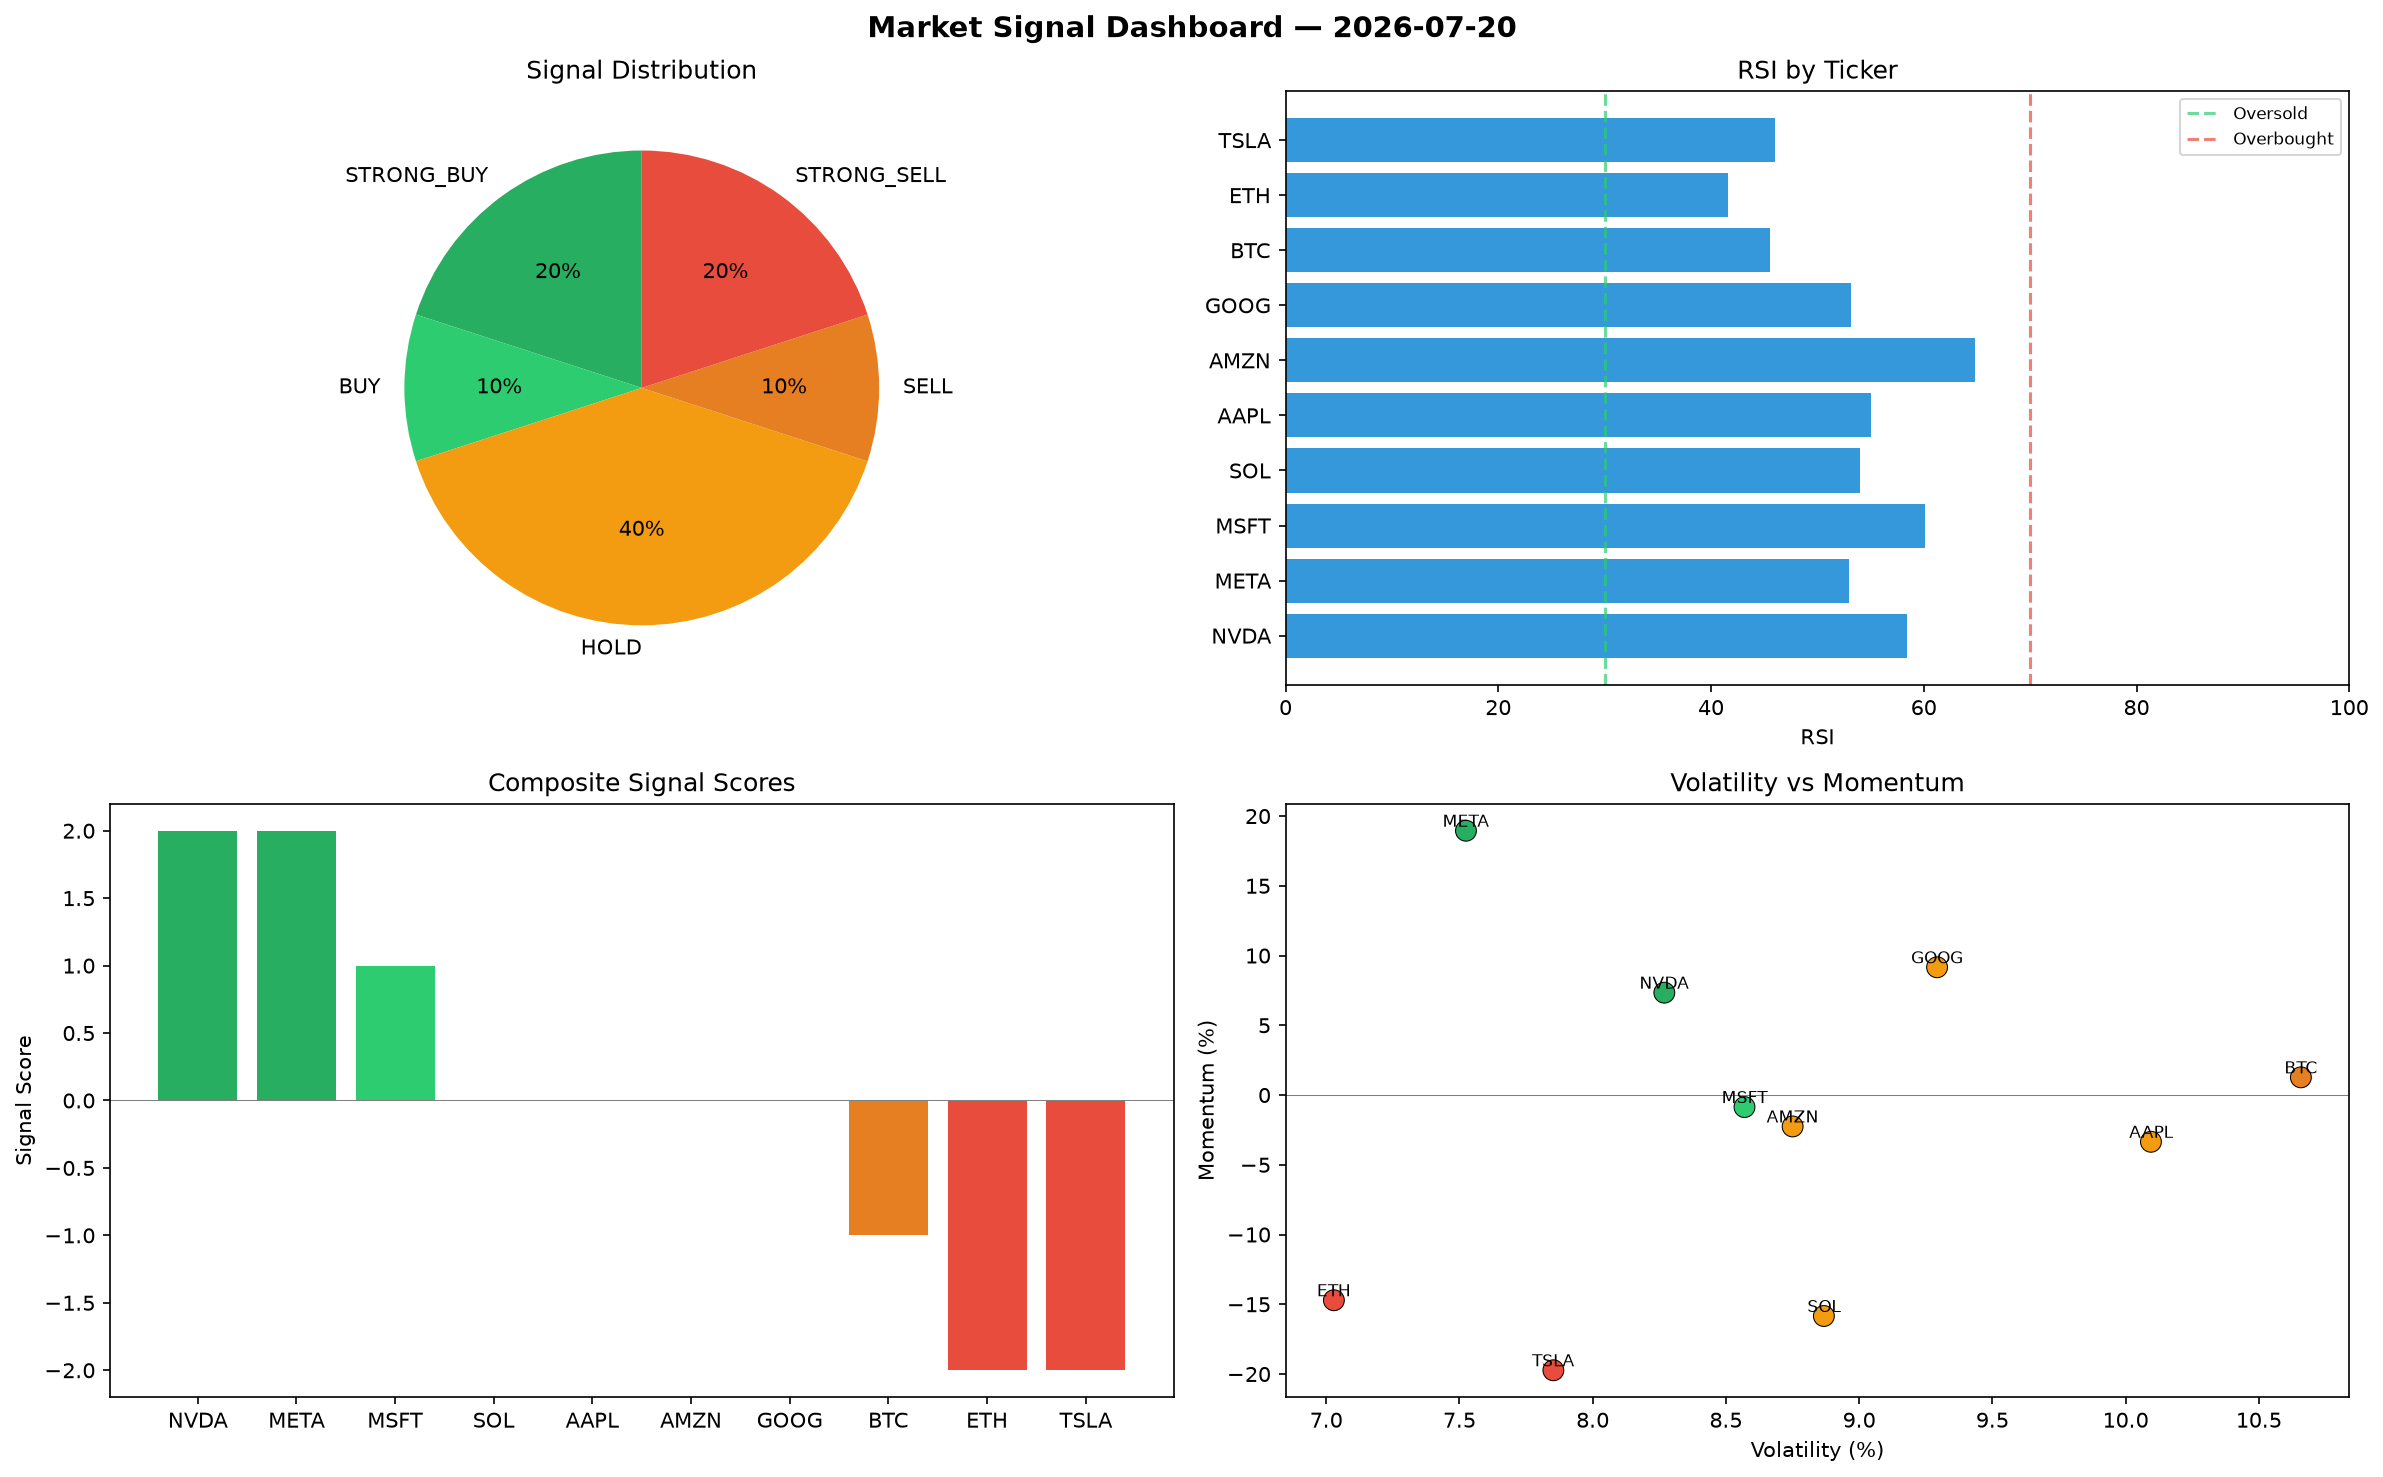
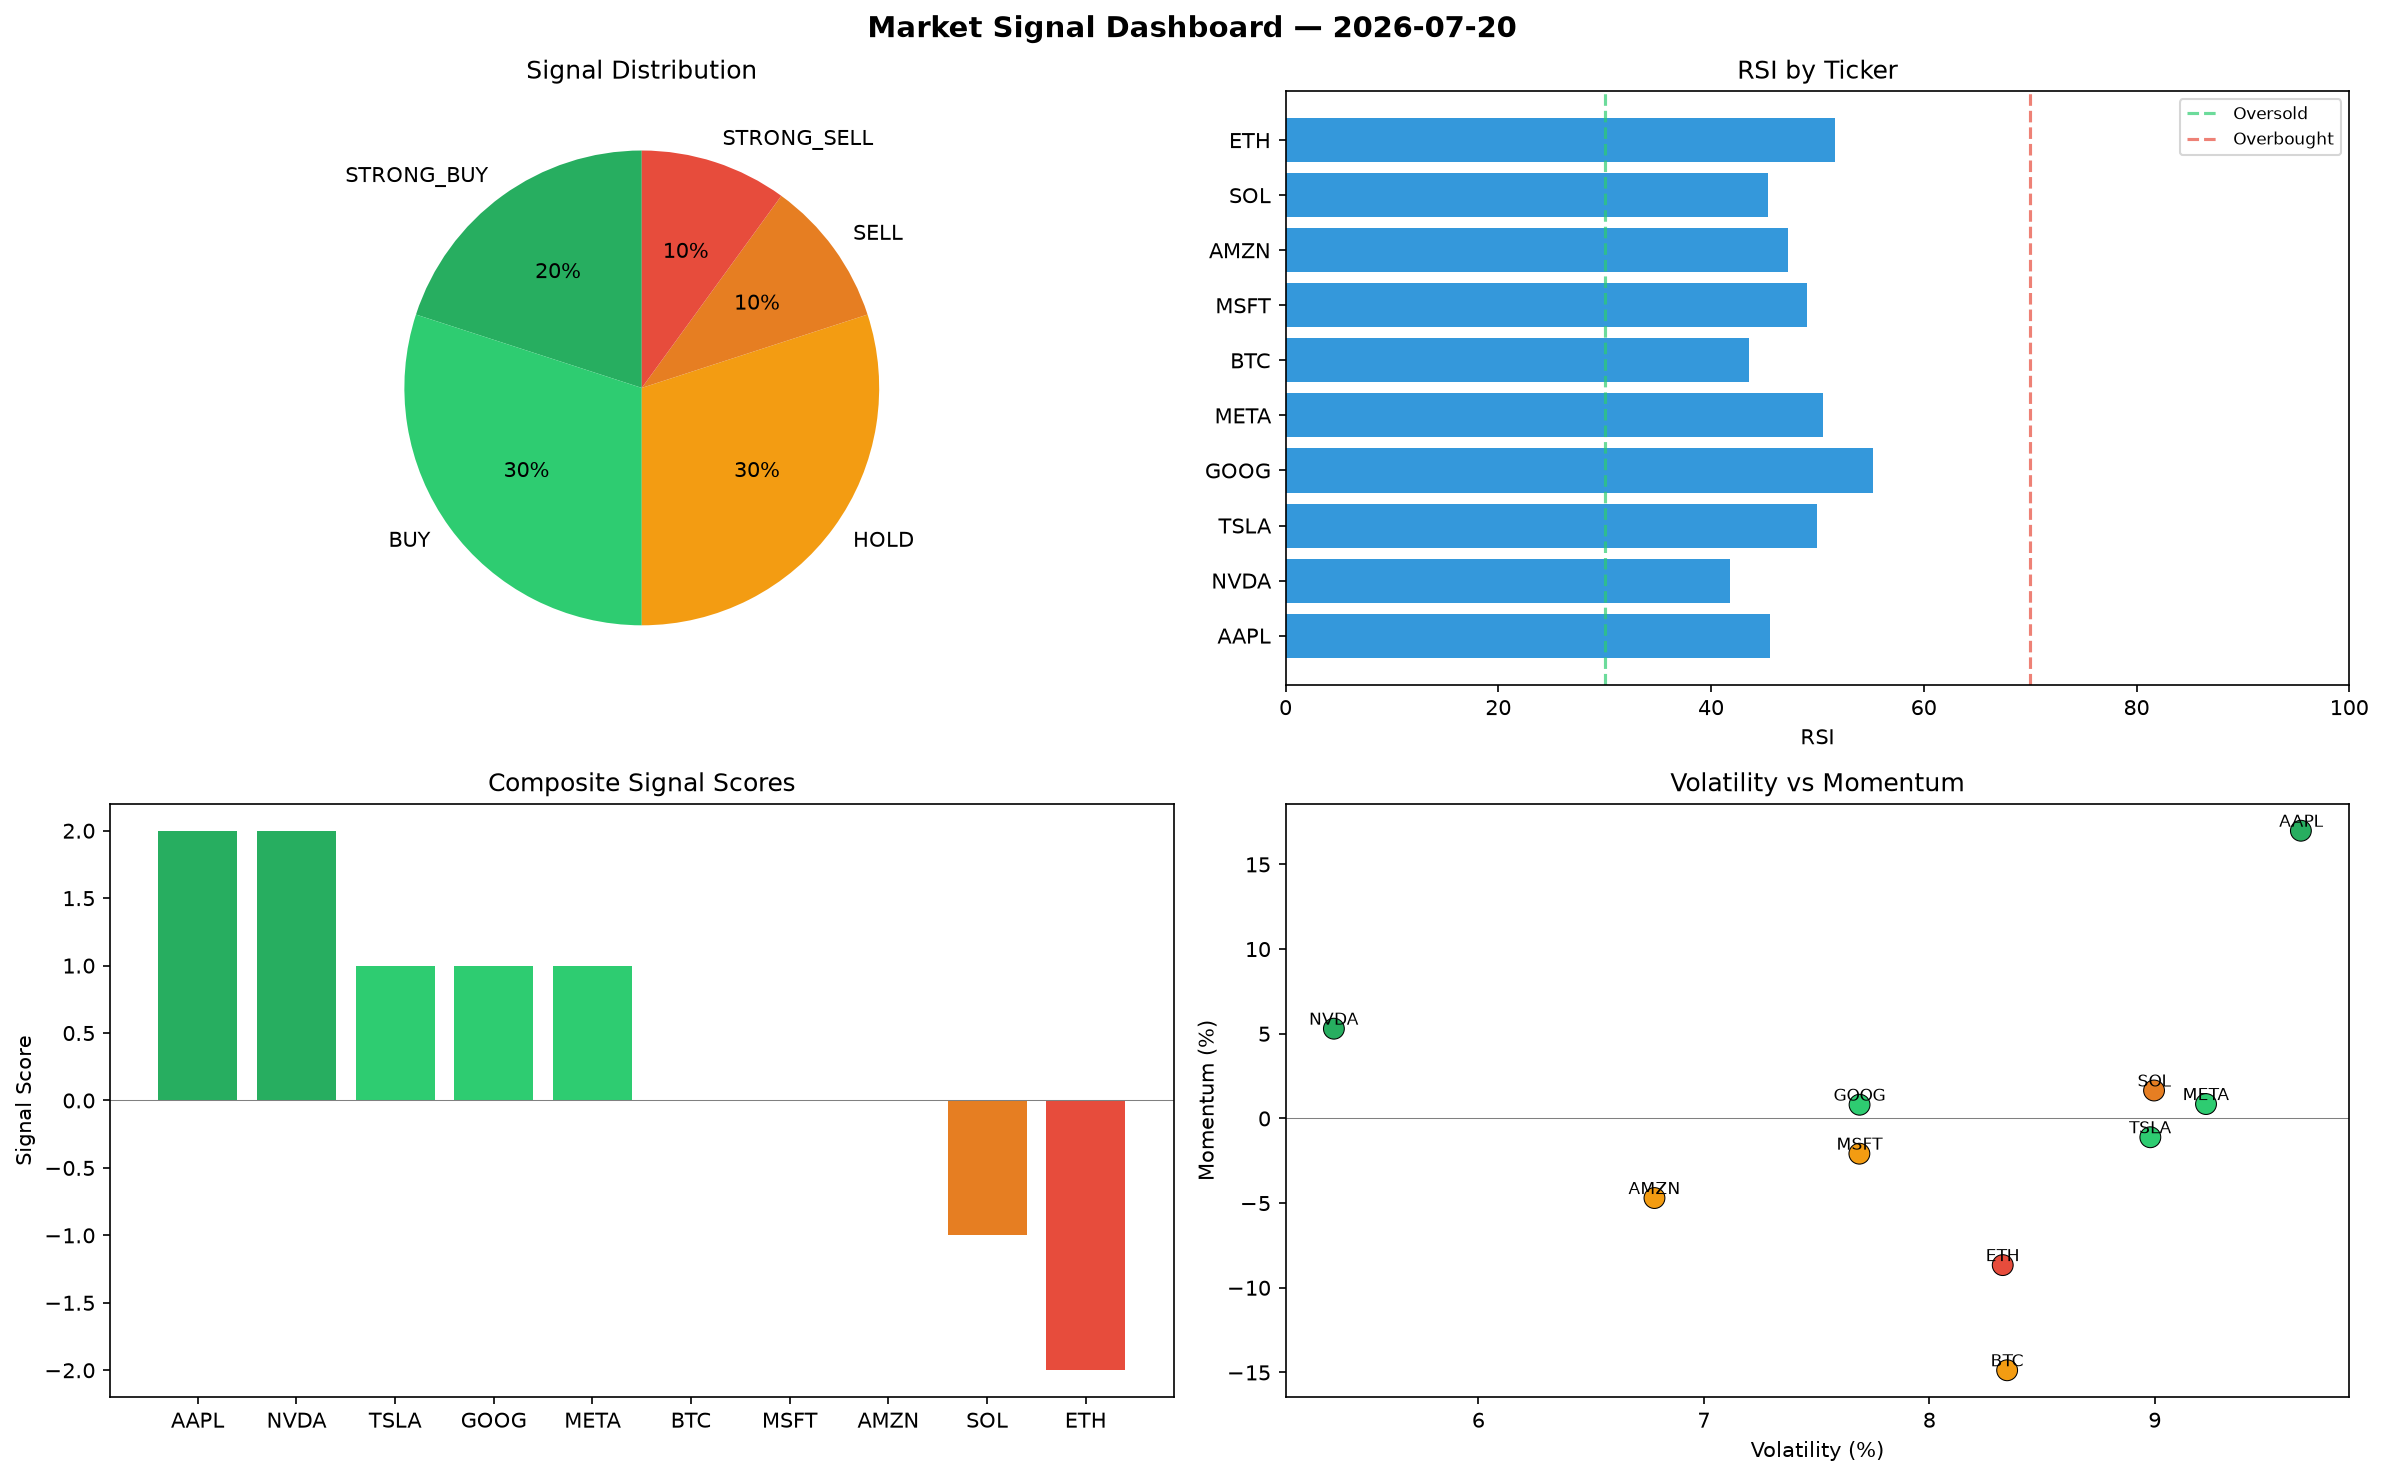
automated-bots: market signals 2026-07-20T21:37

diff --git a/logs/2026-07-20.md b/logs/2026-07-20.md
@@ -1,6 +1,6 @@
 # Market Signal Report — 2026-07-20
 
-**Run ID:** `f9aeab8308` | **Buy:** 3 | **Sell:** 3 | **Hold:** 4
+**Run ID:** `02fcd14703` | **Buy:** 5 | **Sell:** 2 | **Hold:** 3
 
 ![Dashboard](2026-07-20_dashboard.png)
 
@@ -8,28 +8,28 @@
 
 | Ticker | Price | Signal | Score | RSI | Momentum | Confidence |
 |--------|-------|--------|-------|-----|----------|------------|
-| NVDA | $3032.59 | **STRONG_BUY** | 2 | 58.39 | 0.0734 | 0.5 |
-| META | $71.62 | **STRONG_BUY** | 2 | 52.94 | 0.1895 | 0.5 |
-| MSFT | $4611.92 | **BUY** | 1 | 60.14 | -0.0086 | 0.25 |
-| SOL | $3042.68 | **HOLD** | 0 | 54.05 | -0.1584 | 0.0 |
-| AAPL | $1318.69 | **HOLD** | 0 | 55.04 | -0.0335 | 0.0 |
-| AMZN | $2437.42 | **HOLD** | 0 | 64.78 | -0.0225 | 0.0 |
-| GOOG | $3143.2 | **HOLD** | 0 | 53.13 | 0.0916 | 0.0 |
-| BTC | $1205.11 | **SELL** | -1 | 45.54 | 0.0127 | 0.25 |
-| ETH | $1041.61 | **STRONG_SELL** | -2 | 41.56 | -0.1471 | 0.5 |
-| TSLA | $1617.27 | **STRONG_SELL** | -2 | 45.99 | -0.1973 | 0.5 |
+| AAPL | $1951.09 | **STRONG_BUY** | 2 | 45.57 | 0.1699 | 0.5 |
+| NVDA | $2787.35 | **STRONG_BUY** | 2 | 41.74 | 0.053 | 0.5 |
+| TSLA | $959.24 | **BUY** | 1 | 49.97 | -0.0111 | 0.25 |
+| GOOG | $896.31 | **BUY** | 1 | 55.26 | 0.0081 | 0.25 |
+| META | $2553.45 | **BUY** | 1 | 50.52 | 0.0085 | 0.25 |
+| BTC | $734.46 | **HOLD** | 0 | 43.58 | -0.1487 | 0.0 |
+| MSFT | $1976.4 | **HOLD** | 0 | 49.01 | -0.0208 | 0.0 |
+| AMZN | $1195.55 | **HOLD** | 0 | 47.2 | -0.047 | 0.0 |
+| SOL | $3044.88 | **SELL** | -1 | 45.32 | 0.0165 | 0.25 |
+| ETH | $80.55 | **STRONG_SELL** | -2 | 51.65 | -0.0866 | 0.5 |
 
 ## Delta vs Yesterday
 
 | Ticker | Today | Yesterday | Price Change | Signal Changed |
 |--------|-------|-----------|-------------|----------------|
-| NVDA | STRONG_BUY | STRONG_SELL | 📉 -23.81% | ⚠ YES |
-| META | STRONG_BUY | STRONG_SELL | 📉 -96.8% | ⚠ YES |
-| MSFT | BUY | STRONG_SELL | 📈 5.23% | ⚠ YES |
-| SOL | HOLD | STRONG_BUY | 📈 766.89% | ⚠ YES |
-| AAPL | HOLD | HOLD | 📈 73.84% | — |
-| AMZN | HOLD | SELL | 📈 80.17% | ⚠ YES |
-| GOOG | HOLD | HOLD | 📈 152.43% | — |
-| BTC | SELL | STRONG_SELL | 📉 -44.84% | ⚠ YES |
-| ETH | STRONG_SELL | HOLD | 📉 -71.3% | ⚠ YES |
-| TSLA | STRONG_SELL | BUY | 📉 -43.59% | ⚠ YES |
+| AAPL | STRONG_BUY | HOLD | 📈 157.21% | ⚠ YES |
+| NVDA | STRONG_BUY | STRONG_SELL | 📉 -29.98% | ⚠ YES |
+| TSLA | BUY | BUY | 📉 -66.54% | — |
+| GOOG | BUY | HOLD | 📉 -28.02% | ⚠ YES |
+| META | BUY | STRONG_SELL | 📈 13.93% | ⚠ YES |
+| BTC | HOLD | STRONG_SELL | 📉 -66.38% | ⚠ YES |
+| MSFT | HOLD | STRONG_SELL | 📉 -54.9% | ⚠ YES |
+| AMZN | HOLD | SELL | 📉 -11.63% | ⚠ YES |
+| SOL | SELL | STRONG_BUY | 📈 767.51% | ⚠ YES |
+| ETH | STRONG_SELL | HOLD | 📉 -97.78% | ⚠ YES |
